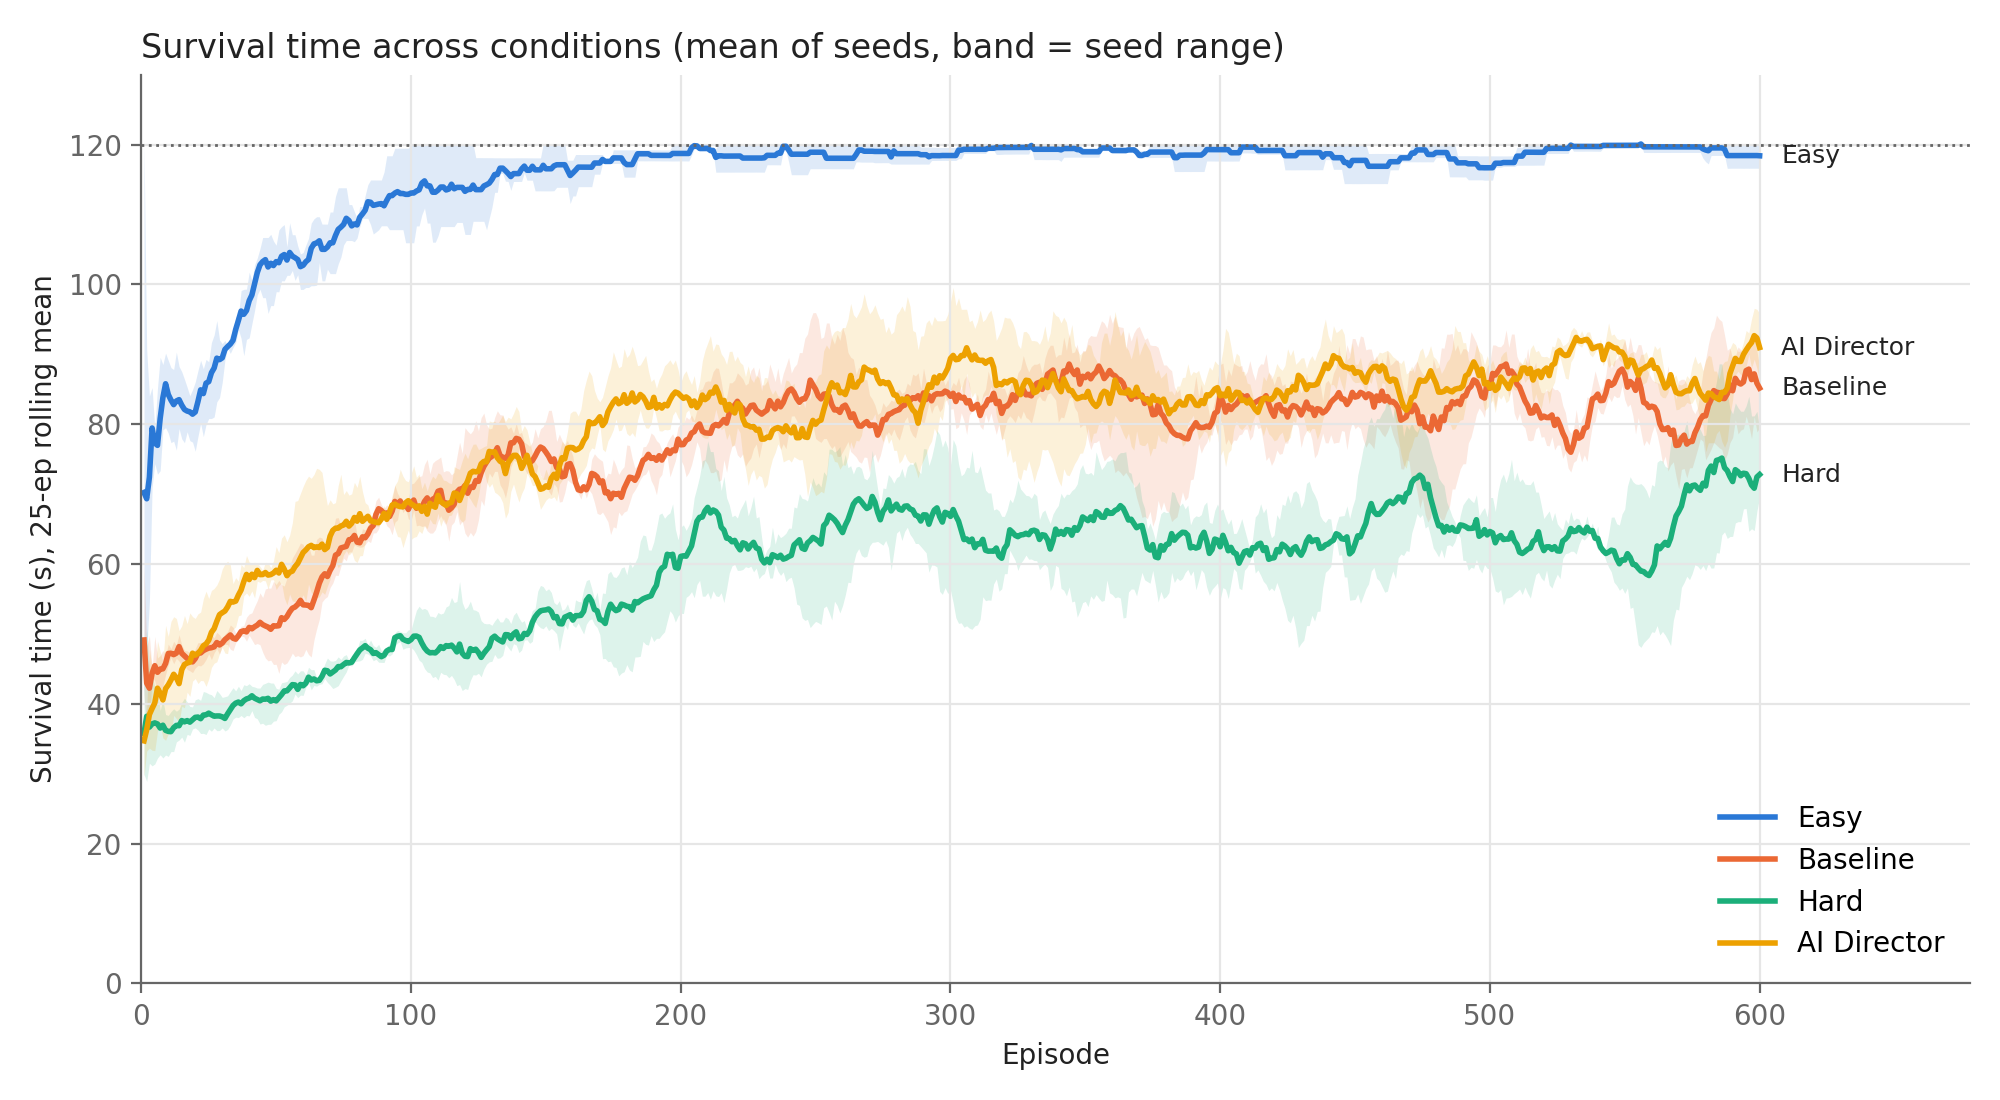
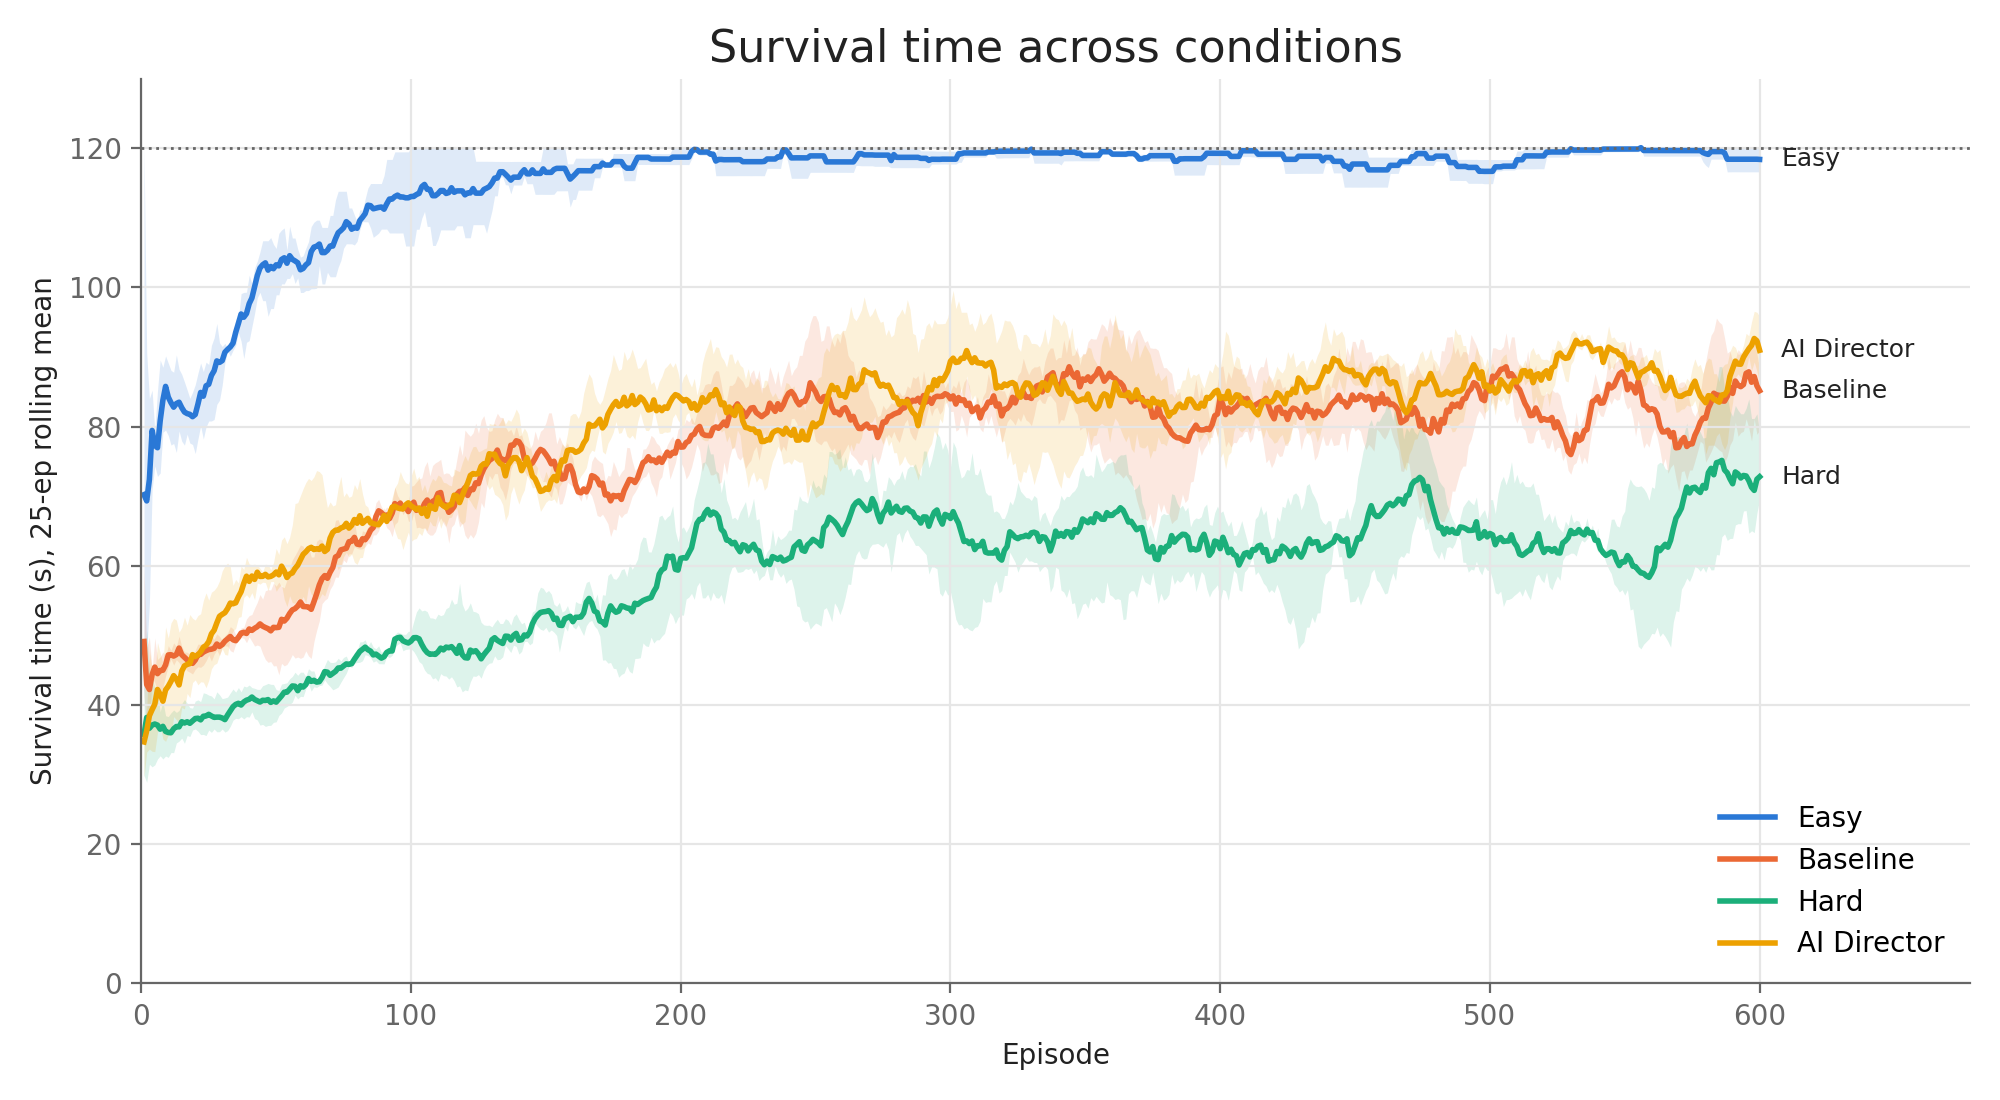
fecthed new graphs

diff --git a/Assets/StreamingAssets/plot_results.py b/Assets/StreamingAssets/plot_results.py
@@ -103,8 +103,7 @@ ax.set_xlim(0, ep[-1] * 1.13)
 ax.set_ylim(0, 130)
 ax.set_xlabel("Episode")
 ax.set_ylabel(f"Survival time (s), {SMOOTH}-ep rolling mean")
-ax.set_title("Survival time across conditions (mean of seeds, band = seed range)",
-             loc="left", color=INK)
+ax.set_title("Survival time across conditions", loc="center", color=INK, fontsize = 16)
 ax.legend(loc="lower right")
 fig.tight_layout()
 fig.savefig(OUTPUT_DIR / "fig2_cross_condition.png", dpi=200)
@@ -124,7 +123,7 @@ ax.set_xlim(0, ep[-1] * 1.13)
 ax.set_ylim(0, 105)
 ax.set_xlabel("Episode")
 ax.set_ylabel(f"Win rate (%), {WIN_WINDOW}-ep rolling")
-ax.set_title("Win rate (survived to timeout) during training", loc="left", color=INK)
+ax.set_title("Win rate during training", loc="center", color=INK, fontsize =16)
 ax.legend(loc="upper left")
 fig.tight_layout()
 fig.savefig(OUTPUT_DIR / "fig3_win_rate.png", dpi=200)
@@ -204,7 +203,7 @@ def overlay(ax, metric, ylabel, title, label_ends=True):
         ax.set_xlim(0, last_ep * 1.15)
     ax.set_xlabel("Episode")
     ax.set_ylabel(f"{ylabel}, {SMOOTH}-ep rolling mean")
-    ax.set_title(title, loc="left", color=INK)
+    ax.set_title(title, loc="center", color=INK, fontsize = 16)
 
 
 # Derived column: total pickups
@@ -219,7 +218,7 @@ per_condition("TotalReward", "Episode return", "Episode return by difficulty con
 
 fig, ax = plt.subplots(figsize=(10, 5.5))
 overlay(ax, "TotalReward", "Episode return",
-        "Episode return across conditions (mean of seeds, band = seed range)")
+        "Episode return across conditions")
 ax.axhline(0, color=INK2, linewidth=0.8)
 ax.legend(loc="lower right")
 fig.tight_layout()
